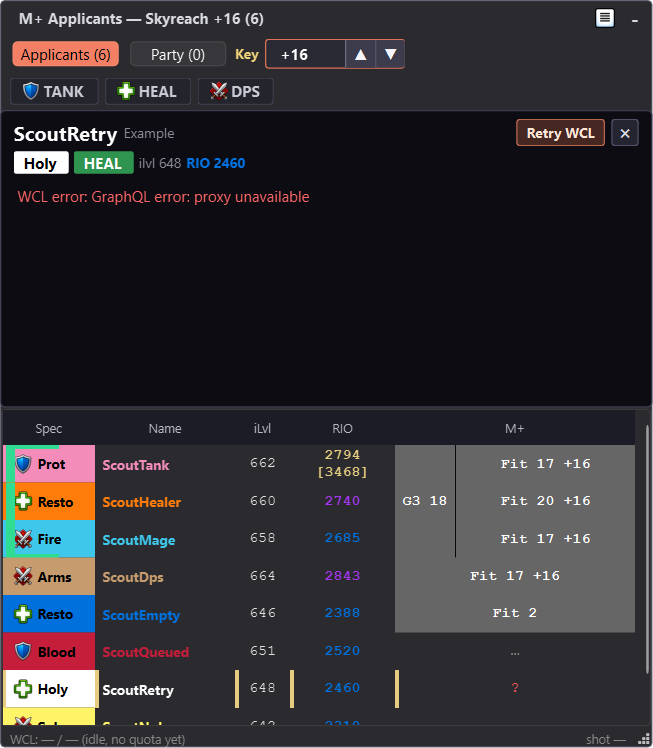
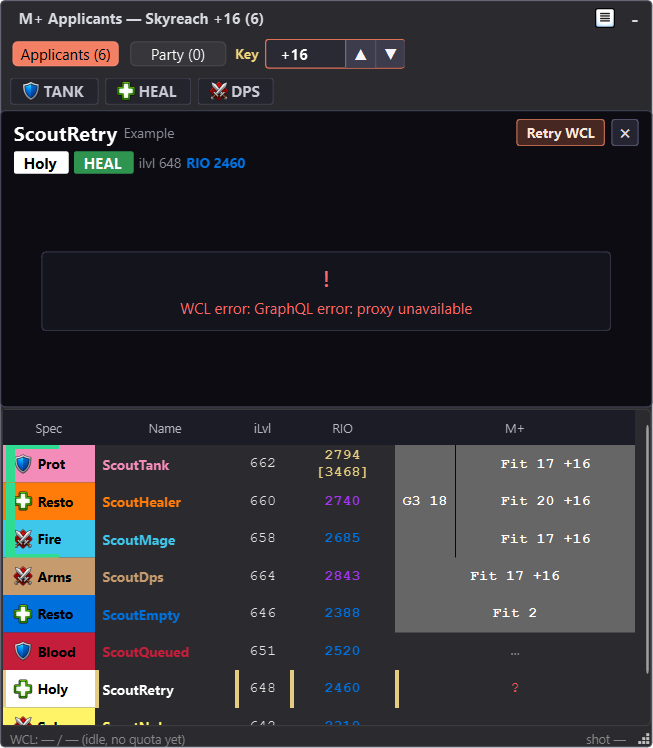
feat(ui): center empty info panel states [T3-33]

Changed region(s): [[0.2757, 0.3997, 0.7351, 0.4305], [0.0306, 0.246, 0.49, 0.2767]]

diff --git a/src/applicant_scout/overlay.py b/src/applicant_scout/overlay.py
@@ -1739,6 +1739,30 @@ class ApplicantInfoPanel(QFrame):
         self._status_label.setWordWrap(True)
         outer.addWidget(self._status_label)
 
+        self._state_stage = QWidget(self)
+        state_stage_layout = QVBoxLayout(self._state_stage)
+        state_stage_layout.setContentsMargins(22, 2, 22, 2)
+        state_stage_layout.setSpacing(0)
+        state_stage_layout.addStretch(1)
+        self._state_card = QFrame(self._state_stage)
+        self._state_card.setObjectName("infoPanelStateCard")
+        self._state_card.setMinimumHeight(64)
+        state_card_layout = QVBoxLayout(self._state_card)
+        state_card_layout.setContentsMargins(12, 8, 12, 8)
+        state_card_layout.setSpacing(2)
+        self._state_icon_label = QLabel("")
+        self._state_icon_label.setObjectName("infoPanelStateIcon")
+        self._state_icon_label.setAlignment(Qt.AlignmentFlag.AlignCenter)
+        state_card_layout.addWidget(self._state_icon_label)
+        self._state_text_label = QLabel("")
+        self._state_text_label.setObjectName("infoPanelStateText")
+        self._state_text_label.setAlignment(Qt.AlignmentFlag.AlignCenter)
+        self._state_text_label.setWordWrap(True)
+        state_card_layout.addWidget(self._state_text_label)
+        state_stage_layout.addWidget(self._state_card)
+        state_stage_layout.addStretch(1)
+        outer.addWidget(self._state_stage, stretch=1)
+
         self._dungeon_widget = QWidget(self)
         self._dungeon_grid = QGridLayout(self._dungeon_widget)
         self._dungeon_grid.setContentsMargins(0, 2, 0, 0)
@@ -1775,7 +1799,8 @@ class ApplicantInfoPanel(QFrame):
             self._dungeon_rows.append((name, rio_key, wcl_key, value))
         self._dungeon_grid.setColumnStretch(4, 1)
         outer.addWidget(self._dungeon_widget)
-        outer.addStretch(1)
+        self._bottom_filler = QWidget(self)
+        outer.addWidget(self._bottom_filler, stretch=1)
 
         for label in self.findChildren(QLabel):
             label.setTextFormat(Qt.TextFormat.PlainText)
@@ -1783,7 +1808,11 @@ class ApplicantInfoPanel(QFrame):
         self.setPlaceholder()
 
     def tooltip_widgets(self) -> tuple[QWidget, ...]:
-        return (self._wcl_retry_button, self._unpin_button)
+        return (
+            self._wcl_retry_button,
+            self._unpin_button,
+            self._state_text_label,
+        )
 
     def set_metric_preferences(self, metric_preferences: MetricPreferences) -> None:
         self._metric_preferences = metric_preferences
@@ -1811,8 +1840,11 @@ class ApplicantInfoPanel(QFrame):
         self._hide_data_widgets()
         self._current_applicant = None
         self._current_listing = None
-        self._status_label.setText("Hover a row for applicant details.")
-        self._status_label.setVisible(True)
+        self._show_status(
+            "Hover a row for applicant details.",
+            centered=True,
+            state_kind="placeholder",
+        )
 
     def setApplicantData(
         self,
@@ -1860,6 +1892,13 @@ class ApplicantInfoPanel(QFrame):
         self._package_label.setText("")
         self._package_label.setVisible(False)
         self._detail_tabs.setVisible(False)
+        self._status_label.setText("")
+        self._status_label.setVisible(False)
+        self._state_text_label.setText("")
+        self._state_text_label.setToolTip("")
+        self._state_icon_label.setText("")
+        self._state_stage.setVisible(False)
+        self._bottom_filler.setVisible(True)
         self._visible_detail_rows = 0
         for row in self._dungeon_rows:
             for label in row:
@@ -1958,10 +1997,16 @@ class ApplicantInfoPanel(QFrame):
         self._clear_metrics_and_dungeons()
         self._sync_detail_controls(listing)
         self._status_label.setVisible(False)
+        self._state_stage.setVisible(False)
+        self._bottom_filler.setVisible(True)
         self._wcl_retry_button.hide()
         if status in ("loading", "pending"):
-            self._show_status("Fetching from Warcraft Logs…")
-            self._set_detail_rows(applicant, listing)
+            visible_rows = self._set_detail_rows(applicant, listing)
+            self._show_status(
+                "Fetching from Warcraft Logs…",
+                centered=visible_rows == 0 and not self._package_label.text(),
+                state_kind="loading",
+            )
             return
         if status == "error":
             msg = applicant.error_message or "unknown"
@@ -1971,13 +2016,19 @@ class ApplicantInfoPanel(QFrame):
                 if fit.context == CONTEXT_MPLUS and fit.score > 0.0
                 else ""
             )
+            visible_metrics = self._set_metric_badges(applicant, listing)
+            visible_rows = self._set_detail_rows(applicant, listing)
             self._show_status(
                 f"WCL error: {msg}{source_note}",
                 error=True,
                 retry_available=wcl_retry_available,
+                centered=(
+                    visible_metrics == 0
+                    and visible_rows == 0
+                    and not self._package_label.text()
+                ),
+                state_kind="error",
             )
-            self._set_metric_badges(applicant, listing)
-            self._set_detail_rows(applicant, listing)
             return
         if status == "not_found":
             fit = candidate_fit(applicant, listing)
@@ -1986,9 +2037,17 @@ class ApplicantInfoPanel(QFrame):
                 if fit.context == CONTEXT_MPLUS and fit.score > 0.0
                 else ""
             )
-            self._show_status(f"Not found on Warcraft Logs{source_note}")
-            self._set_metric_badges(applicant, listing)
-            self._set_detail_rows(applicant, listing)
+            visible_metrics = self._set_metric_badges(applicant, listing)
+            visible_rows = self._set_detail_rows(applicant, listing)
+            self._show_status(
+                f"Not found on Warcraft Logs{source_note}",
+                centered=(
+                    visible_metrics == 0
+                    and visible_rows == 0
+                    and not self._package_label.text()
+                ),
+                state_kind="not_found",
+            )
             return
         if status != "ready":
             self._show_status("")
@@ -2011,7 +2070,11 @@ class ApplicantInfoPanel(QFrame):
         elif fit_status:
             self._show_status(fit_status)
         elif not visible_metrics and not visible_rows:
-            self._show_status("No Warcraft Logs data")
+            self._show_status(
+                "No Warcraft Logs data",
+                centered=not self._package_label.text(),
+                state_kind="empty",
+            )
 
     def _show_status(
         self,
@@ -2020,11 +2083,30 @@ class ApplicantInfoPanel(QFrame):
         error: bool = False,
         retry_available: bool = False,
         action_text: str = "Retry WCL",
+        centered: bool = False,
+        state_kind: str = "neutral",
     ) -> None:
         self._status_label.setText(text)
         color = "#ff6666" if error else "#8d8d98"
         self._status_label.setStyleSheet(f"color: {color};")
-        self._status_label.setVisible(bool(text))
+        self._status_label.setVisible(bool(text and not centered))
+        state_text = text
+        if len(state_text) > 120:
+            state_text = state_text[:119].rstrip() + "…"
+        self._state_text_label.setText(state_text)
+        self._state_text_label.setToolTip(text if state_text != text else "")
+        self._state_text_label.setStyleSheet(f"color: {color};")
+        state_icons = {
+            "placeholder": "◇",
+            "loading": "…",
+            "error": "!",
+            "not_found": "○",
+            "empty": "—",
+        }
+        self._state_icon_label.setText(state_icons.get(state_kind, "—"))
+        self._state_icon_label.setStyleSheet(f"color: {color};")
+        self._state_stage.setVisible(bool(text and centered))
+        self._bottom_filler.setVisible(not bool(text and centered))
         self._wcl_retry_button.setText(action_text)
         self._wcl_retry_button.setToolTip(
             "Load boss-by-boss Warcraft Logs details for this row"
@@ -4890,7 +4972,8 @@ class OverlayWindow(QMainWindow):
                 return _render_tooltip(
                     obj, self._title_bar.title_label.toolTip(), event.globalPos()
                 )
-            # Branch E — action buttons (role filter/reset/title hide tooltips).
+            # Branch E — action controls and panel status text. Long centered
+            # errors rely on this bypass because their visible text is bounded.
             # Identity match only: objectName/text can change without affecting
             # which child widgets need the translucent-overlay tooltip bypass.
             if any(obj is widget for widget in self._action_tooltip_widgets):
@@ -5779,6 +5862,20 @@ _STYLESHEET = """
     color: #8d8d98;
     font-size: 12px;
     padding-top: 2px;
+}
+#infoPanelStateCard {
+    background-color: rgba(25, 25, 36, 150);
+    border: 1px solid rgba(72, 72, 96, 150);
+    border-radius: 4px;
+}
+#infoPanelStateIcon {
+    color: #8d8d98;
+    font-size: 18px;
+    font-weight: 600;
+}
+#infoPanelStateText {
+    color: #a8a8b4;
+    font-size: 12px;
 }
 #infoUnpinButton {
     color: #d8d8e2;

diff --git a/tests/test_info_panel_widget.py b/tests/test_info_panel_widget.py
@@ -8,7 +8,7 @@ from dataclasses import replace
 
 import pytest
 from PyQt6.QtCore import QEvent, QPoint, QPointF, QRect, Qt
-from PyQt6.QtGui import QColor, QFont, QImage, QPainter
+from PyQt6.QtGui import QColor, QFont, QHelpEvent, QImage, QPainter
 from PyQt6.QtWidgets import (
     QApplication,
     QLabel,
@@ -1649,6 +1649,8 @@ def test_panel_renders_rio_dungeon_rows_when_wcl_has_no_logs(qtbot):
     panel.setApplicantData(app, _listing())
 
     assert panel._status_label.text() == "Not found on Warcraft Logs · RaiderIO only"
+    assert not panel._status_label.isHidden()
+    assert panel._state_stage.isHidden()
     name_label, rio_label, wcl_key_label, wcl_label = panel._dungeon_rows[0]
     assert name_label.text() == "Skyreach"
     assert rio_label.text() == "RIO +15"
@@ -1860,15 +1862,93 @@ def test_status_states_hide_metrics_and_dungeons(qtbot):
     panel.setApplicantData(_app(fetch_status="loading"))
 
     assert panel._status_label.text() == "Fetching from Warcraft Logs…"
-    assert not panel._status_label.isHidden()
+    assert panel._status_label.isHidden()
+    assert not panel._state_stage.isHidden()
+    assert panel._state_text_label.text() == "Fetching from Warcraft Logs…"
+    assert panel._state_icon_label.text() == "…"
     assert all(label.isHidden() for label in panel._metric_labels.values())
     assert panel._dungeon_widget.isHidden()
+    assert panel.target_height() == INFO_PANEL_PREFERRED_HEIGHT
 
     panel.setApplicantData(_app(fetch_status="error", error_message="bad token"))
     assert panel._status_label.text() == "WCL error: bad token"
+    assert not panel._state_stage.isHidden()
+    assert panel._state_icon_label.text() == "!"
 
     panel.setApplicantData(_app(fetch_status="not_found"))
     assert panel._status_label.text() == "Not found on Warcraft Logs"
+    assert not panel._state_stage.isHidden()
+    assert panel._state_icon_label.text() == "○"
+
+
+def test_centered_status_owns_remaining_panel_body(qtbot):
+    panel = ApplicantInfoPanel(None)
+    qtbot.addWidget(panel)
+    panel.setMinimumHeight(INFO_PANEL_PREFERRED_HEIGHT)
+    panel.setMaximumHeight(INFO_PANEL_PREFERRED_HEIGHT)
+    panel.resize(650, INFO_PANEL_PREFERRED_HEIGHT)
+    panel.setApplicantData(_app(fetch_status="loading"))
+    panel.show()
+    QApplication.processEvents()
+
+    stage_rect = panel._state_stage.rect()
+    card_rect = panel._state_card.geometry()
+    assert panel._bottom_filler.isHidden()
+    assert panel._state_stage.geometry().bottom() >= panel.height() - 8
+    assert stage_rect.height() > 100
+    assert abs(card_rect.center().y() - stage_rect.center().y()) <= 2
+
+
+def test_centered_long_error_is_bounded_with_full_tooltip(qtbot):
+    panel = ApplicantInfoPanel(None)
+    qtbot.addWidget(panel)
+    panel.setMinimumHeight(INFO_PANEL_PREFERRED_HEIGHT)
+    panel.setMaximumHeight(INFO_PANEL_PREFERRED_HEIGHT)
+    panel.resize(300, INFO_PANEL_PREFERRED_HEIGHT)
+    raw_error = "GraphQL error: " + ("upstream proxy returned malformed data; " * 12)
+    full_status = f"WCL error: {raw_error}"
+    panel.setApplicantData(_app(fetch_status="error", error_message=raw_error))
+    panel.show()
+    QApplication.processEvents()
+
+    assert not panel._state_stage.isHidden()
+    assert panel._status_label.text() == full_status
+    assert len(panel._state_text_label.text()) <= 120
+    assert panel._state_text_label.text().endswith("…")
+    assert panel._state_text_label.toolTip() == full_status
+    assert panel._state_text_label.minimumSizeHint().height() <= (
+        panel._state_text_label.height()
+    )
+
+
+def test_centered_long_error_uses_overlay_tooltip_bypass(
+    qtbot, tmp_path, monkeypatch
+):
+    auth = WCLAuth("client", "secret", tmp_path)
+    client = WCLClient(auth)
+    cache = CharacterCache(tmp_path)
+    window = OverlayWindow(AppState(), client, cache, tmp_path)
+    qtbot.addWidget(window)
+    raw_error = "GraphQL error: " + ("upstream proxy returned malformed data; " * 12)
+    full_status = f"WCL error: {raw_error}"
+    window._panel.setApplicantData(_app(fetch_status="error", error_message=raw_error))
+    label = window._panel._state_text_label
+    rendered: list[tuple[QWidget, str, QPoint]] = []
+
+    def record_tooltip(parent_widget, tip: str, global_pos: QPoint) -> bool:
+        rendered.append((parent_widget, tip, global_pos))
+        return True
+
+    monkeypatch.setattr(overlay_mod, "_render_tooltip", record_tooltip)
+    global_pos = QPoint(70, 90)
+    event = QHelpEvent(QEvent.Type.ToolTip, QPoint(4, 5), global_pos)
+
+    try:
+        assert label in window._action_tooltip_widgets
+        assert window.eventFilter(label, event) is True
+        assert rendered == [(label, full_status, global_pos)]
+    finally:
+        client.close()
 
 
 def test_wcl_retry_button_visibility_is_explicitly_gated(qtbot):
@@ -1932,6 +2012,8 @@ def test_panel_explains_error_mplus_fit_uses_raiderio_only(qtbot):
 
     assert panel._metric_labels["M+"].text().startswith("M+ Fit ")
     assert panel._status_label.text() == "WCL error: bad token · RaiderIO only"
+    assert not panel._status_label.isHidden()
+    assert panel._state_stage.isHidden()
 
 
 def test_ready_no_data_shows_compact_status(qtbot):
@@ -1953,8 +2035,12 @@ def test_ready_no_data_shows_compact_status(qtbot):
     )
 
     assert panel._status_label.text() == "No Warcraft Logs data"
-    assert not panel._status_label.isHidden()
+    assert panel._status_label.isHidden()
+    assert not panel._state_stage.isHidden()
+    assert panel._state_text_label.text() == "No Warcraft Logs data"
+    assert panel._state_icon_label.text() == "—"
     assert panel._dungeon_widget.isHidden()
+    assert panel.target_height() == INFO_PANEL_PREFERRED_HEIGHT
 
 
 def test_panel_external_text_labels_use_plain_text(qtbot):